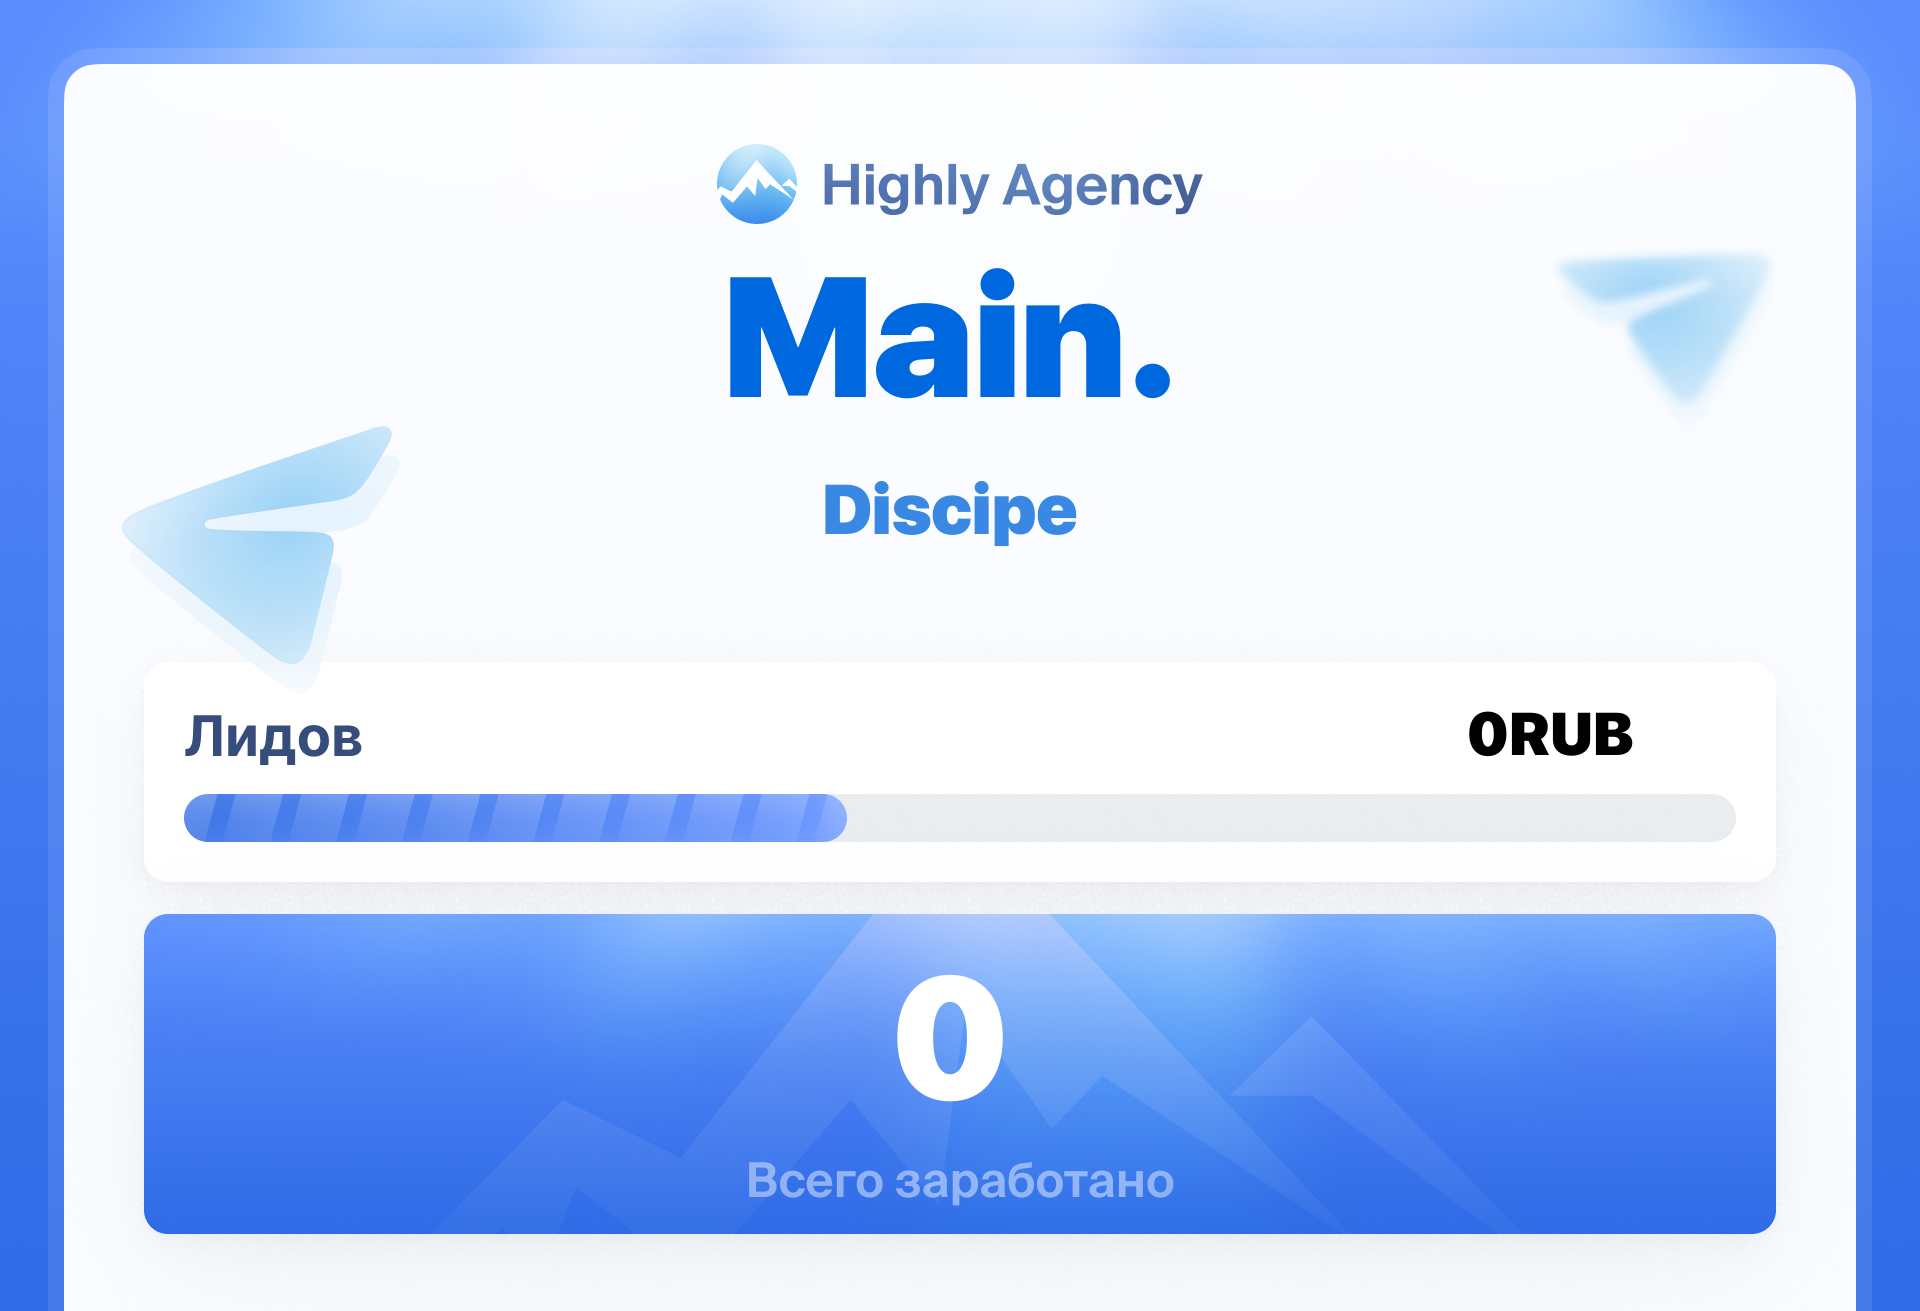
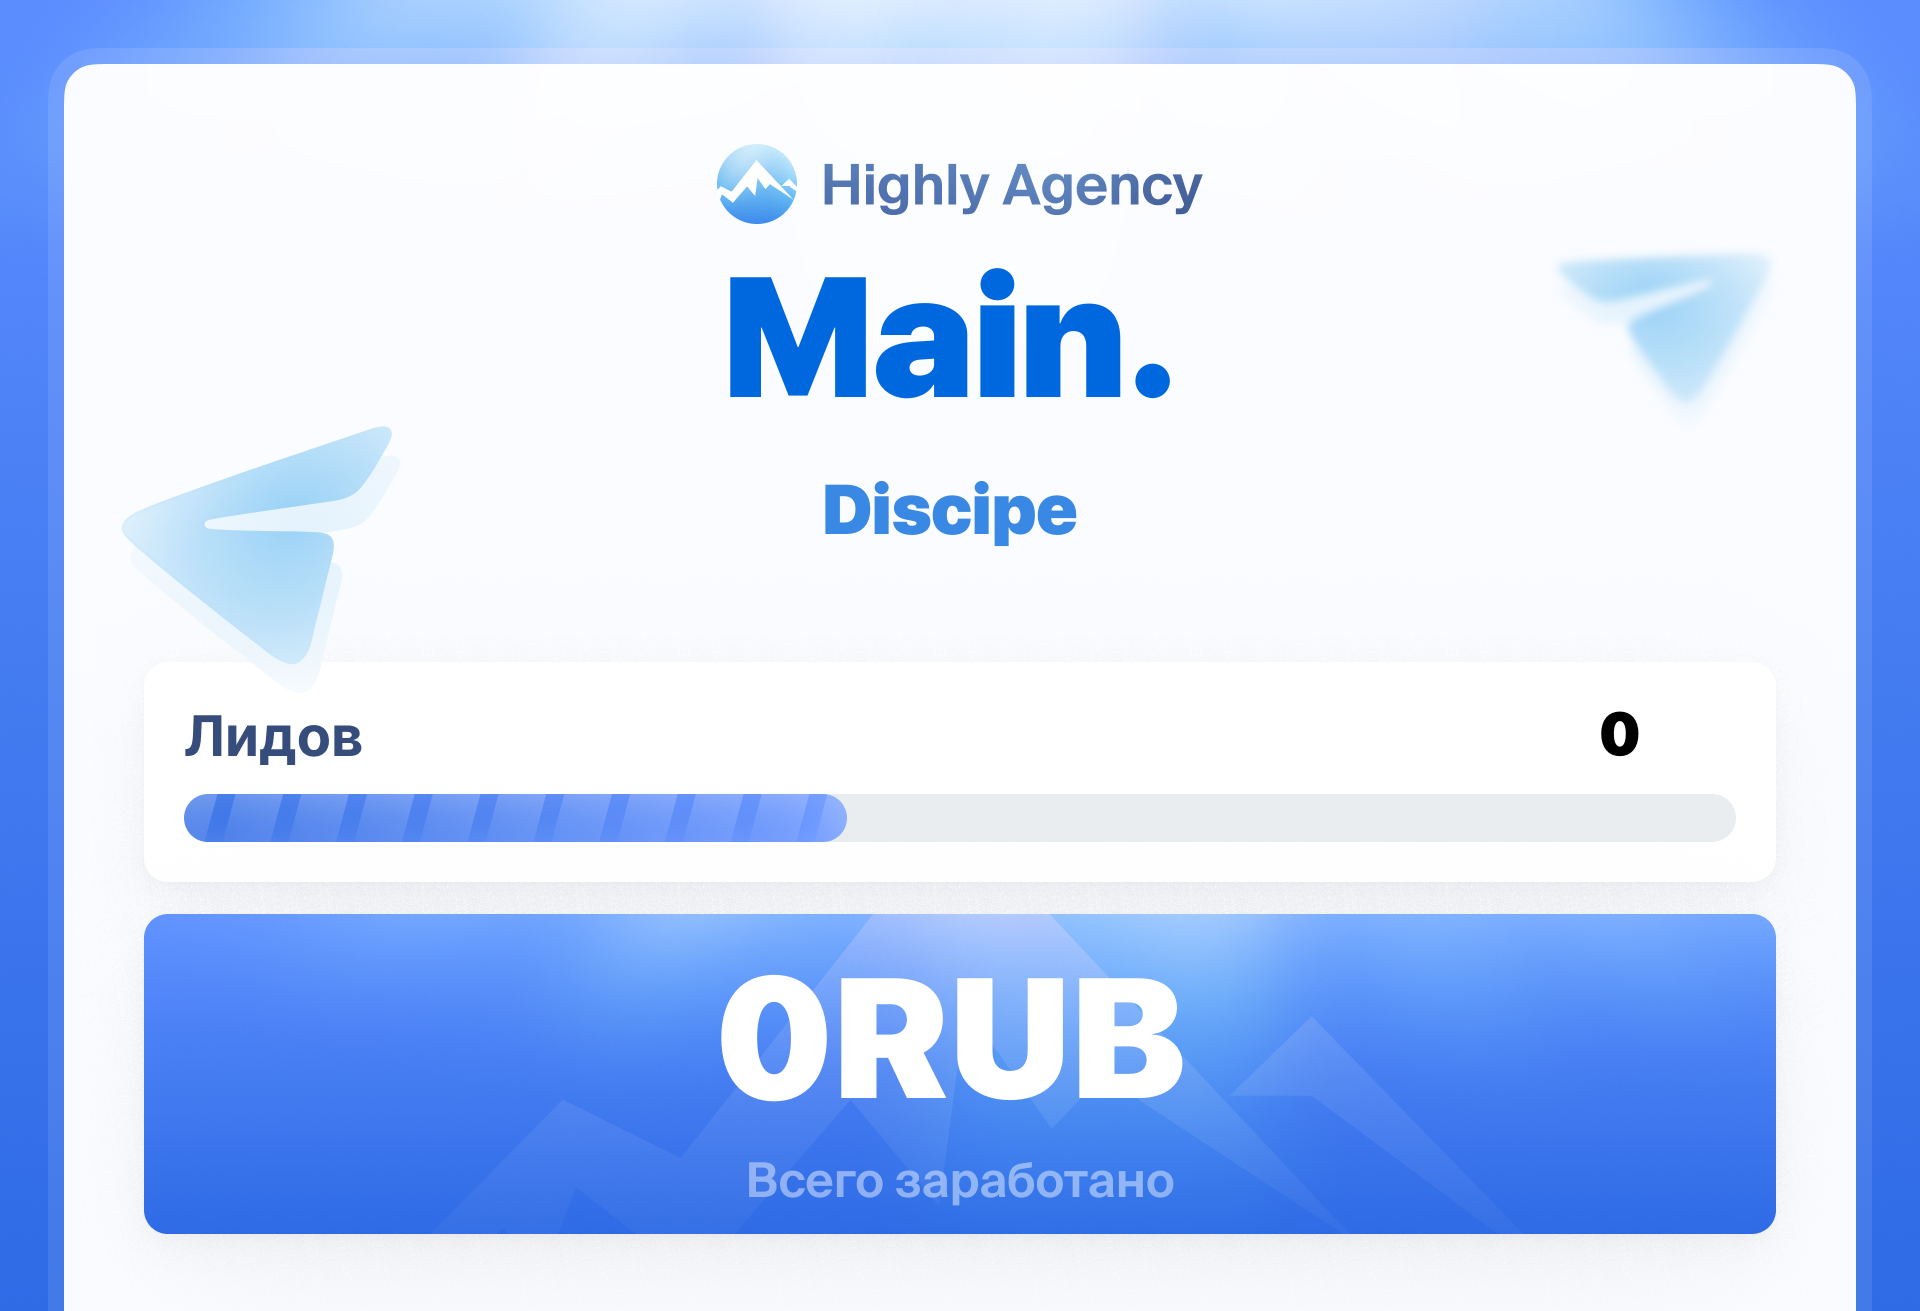
fix

Changed region(s): [[0.375, 0.7323, 0.625, 0.8543], [0.75, 0.5187, 0.875, 0.5797]]

diff --git a/admin/user_refactoring.py b/admin/user_refactoring.py
@@ -40,22 +40,22 @@ async def process_username(message: types.Message, state: FSMContext):
     # Формируем сообщение с информацией
     text = (f"👤 Пользователь: {user.username}\n"
             f"ID: {user.id}\n\n"
-            f"📊 Подписчики: {user.lids}\n"
-            f"💰 Баланс: {user.money}\n"
-            f"Выведено денег: {user.pay_out}\n"
-            f"🏆 Админка: {'Да' if user.is_admin else 'Нет'}\n"
-            f"Приватность{'Да' if user.is_private else 'Нет'}\n"
+            f"📊 Лидов: {user.lids}\n"
+            f"💳 Баланс: {user.money}\n"
+            f"📤 Выведено денег: {user.pay_out}\n"
+            f"🛡 Админка: {'Да' if user.is_admin else 'Нет'}\n"
+            f"👁 Приватность{'Да' if user.is_private else 'Нет'}\n"
             f"🚫 Блокировка: {'Да' if user.is_ban else 'Нет'}")
 
     # Создаем клавиатуру
     keyboard = InlineKeyboardBuilder()
-    keyboard.button(text="Изменить подписчиков", callback_data=f"edit_lids:{user.id}")
-    keyboard.button(text="Изменить баланс", callback_data=f"edit_money:{user.id}")
-    keyboard.button(text="Изменить баланс вывода", callback_data=f"edit_out:{user.id}")
+    keyboard.button(text="👥Изменить лидов", callback_data=f"edit_lids:{user.id}")
+    keyboard.button(text="💲Изменить баланс", callback_data=f"edit_money:{user.id}")
+    keyboard.button(text="💱Изменить баланс вывода", callback_data=f"edit_out:{user.id}")
     if not user.is_ban:
-        keyboard.button(text="Заблокировать", callback_data=f"block_user:{user.id}")
+        keyboard.button(text="❌Заблокировать", callback_data=f"block_user:{user.id}")
     else:
-        keyboard.button(text="Разблокировать", callback_data=f"unblock_user:{user.id}")
+        keyboard.button(text="✔Разблокировать", callback_data=f"unblock_user:{user.id}")
     keyboard.adjust(2)
 
     await message.answer(text, reply_markup=keyboard.as_markup())

diff --git a/profile/profile_router.py b/profile/profile_router.py
@@ -87,7 +87,7 @@ async def pro_handler(message: types.Message):
         but1 = InlineKeyboardButton(text="👁 Раскрыть аккаунт", callback_data="inviz")
 
     else:
-        but1 = InlineKeyboardButton(text="👁 Скрыть аккаунт", callback_data="inviz")
+        but1 = InlineKeyboardButton(text="👁 Скрыть аккаунт", callback_data="inviz")
 
     profile_keyboard = InlineKeyboardMarkup(inline_keyboard=[[but1, but2], [but3, but4], [but5]])
 
@@ -102,6 +102,23 @@ async def inviz(c: CallbackQuery):
         user = await get_user_info_by_id(session, c.from_user.id)
     async with get_session()() as session:
         await update_user_privacy(session, c.from_user.id, user.is_private)
+    async with get_session()() as session:
+        user = await get_user_info_by_id(session, c.from_user.id)
+        data = {
+        "id": c.from_user.id,
+        "name": c.from_user.first_name,
+        "money": user.money,
+        "rang": status(user.pay_out),
+        "lids": user.lids,
+    }
+    if user.is_private:
+        but1 = InlineKeyboardButton(text="👁 Раскрыть аккаунт", callback_data="inviz")
+
+    else:
+        but1 = InlineKeyboardButton(text="👁 Скрыть аккаунт", callback_data="inviz")
+
+    profile_keyboard = InlineKeyboardMarkup(inline_keyboard=[[but1, but2], [but3, but4], [but5]])
+    await c.message.edit_reply_markup(reply_markup=profile_keyboard)
 
     await c.message.answer("🚨Настройки приватности успешно обновлены")
 

diff --git a/money_out_/money_out.py b/money_out_/money_out.py
@@ -91,9 +91,8 @@ async def get_name(message: Message, state: FSMContext):
     data = await state.get_data()
     print(data)
     ticket = await create_ticket(get_session(), message.from_user.id, data['sum'], data['bank'], data["card_num"], data["comment"])
-    await message.reply(f"Заявка на вывод id{ticket.id} Успешно создана!\n\n"
-                        f"Ваш запрос обрабатывается, средства будут перечислены в течении 24 часов!\n\n"
-                        f"Спасибо за ваше терпение, если у вас останутся вопросы, свяжитесь с тех поддержкой!")
+    await message.reply(f"✅Заявка на вывод id{ticket.id} Успешно создана!\n\n"
+                        f"⏳Ваш запрос обрабатывается, средства будут перечислены в течении 24 часов!\n")
     await state.clear()
 
 

diff --git a/admin/offer_refact.py b/admin/offer_refact.py
@@ -112,8 +112,8 @@ async def show_offer_details(c: CallbackQuery):
 
 
     de1 = InlineKeyboardButton(text="↩ К списку офферов", callback_data="adm_offer_search")
-    de2 = InlineKeyboardButton(text="⌨ Изменить имя кнопки", callback_data=f"create_but_name_{offer_id}")
-    de3 = InlineKeyboardButton(text="✏ Изменить Текст", callback_data=f"refact_text_{offer_id}")
+    de2 = InlineKeyboardButton(text="⌨ Изменить название", callback_data=f"create_but_name_{offer_id}")
+    de3 = InlineKeyboardButton(text="✏ Изменить действие", callback_data=f"refact_text_{offer_id}")
     de4 = InlineKeyboardButton(text="📄 Изменить Описание", callback_data=f"refact_description_{offer_id}")
     de5 = InlineKeyboardButton(text="❌ Удалить оффер", callback_data=f"delete_offer_{offer_id}")
     refact_keyboard = InlineKeyboardMarkup(inline_keyboard=[[de4, de2], [de3, de5], [de1]])

diff --git a/profile/create_img.py b/profile/create_img.py
@@ -38,7 +38,7 @@ def create_profile_image(user_data: dict):
 
     # 4. Рисуем текст
     draw_centered_text(draw, (950, 300), user_data['name'], font, name_color)  # Имя
-    draw_centered_text(draw, (950, 1000), str(user_data['money']), font, money_color)  # Деньги
+    draw_centered_text(draw, (950, 1000), str(user_data['money']) + "RUB", font, money_color)  # Деньги
 
     # Ранг
     font_rang = ImageFont.truetype(font_path, 70)
@@ -46,7 +46,7 @@ def create_profile_image(user_data: dict):
 
     # Лиды
     font_lids = ImageFont.truetype(font_path, 60)
-    draw_centered_text(draw, (1550, 720), str(user_data['lids']) + "RUB", font_lids, lids_color)
+    draw_centered_text(draw, (1620, 720), str(user_data['lids']), font_lids, lids_color)
 
     # 5. Совмещаем слои
     result = Image.alpha_composite(base_image, txt_layer)

diff --git a/main_menu/main_router.py b/main_menu/main_router.py
@@ -11,7 +11,7 @@ from text.all_texts import info_text, manual_url, navigation_url
 all_command: list = ["📌 О проекте", "👦 Профиль", "📦 Офферы", "📃 Мануал", "🛠 Тех Поддержка"]
 
 button1 = KeyboardButton(text = "📌 О проекте", callback_data="info")
-button2 = KeyboardButton(text = "👦 Профиль", callback_data="profile")
+button2 = KeyboardButton(text = "👤 Профиль", callback_data="profile")
 button3 = KeyboardButton(text = "📦 Офферы", callback_data="offers")
 button4 = KeyboardButton(text = "📃 Мануал", url="")
 button5 = KeyboardButton(text = "🛠 Тех Поддержка", callback_data="tex")

diff --git a/test.py b/test.py
@@ -7,7 +7,7 @@ user_data = {
     'bio': 'Python',
     "money": 100,
     "rang": "Security Master",
-    "lids": 254
+    "lids": 2599
 }
 
 
